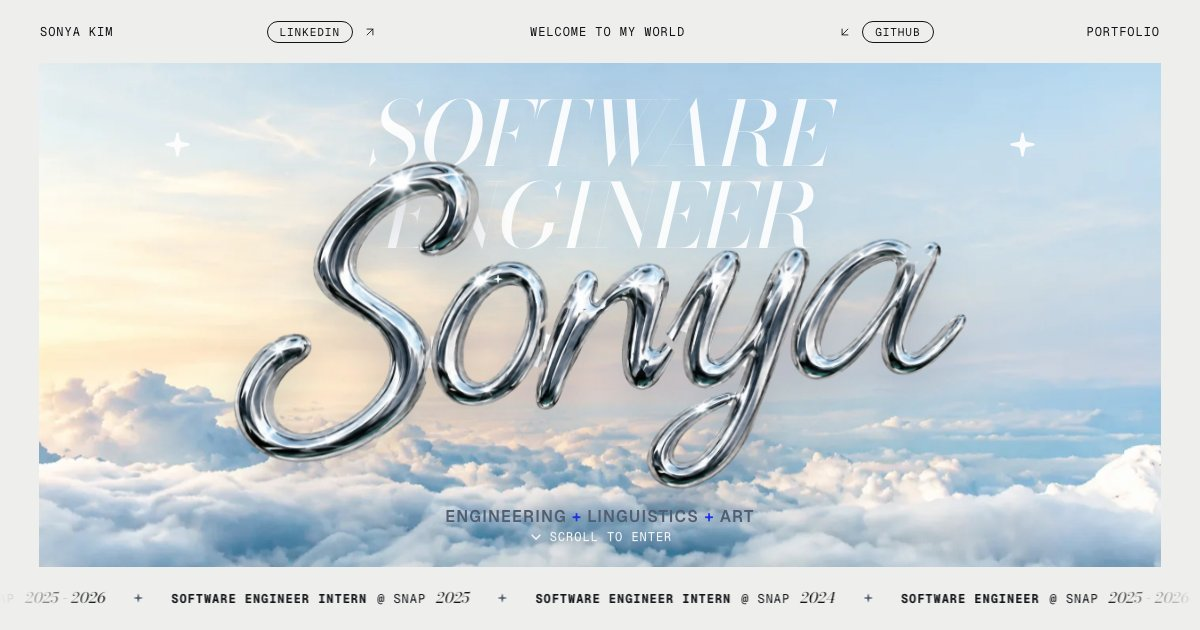
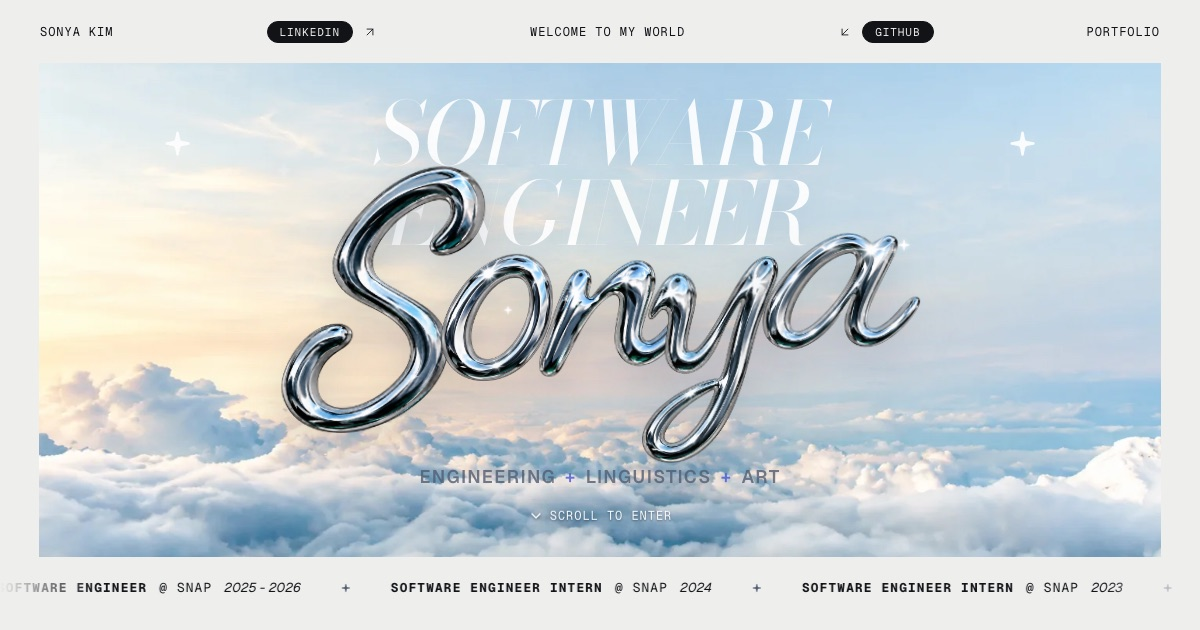
rearrange

diff --git a/src/data/projects.ts b/src/data/projects.ts
@@ -1,13 +1,13 @@
-import cosmos from "../assets/projects/cosmos.webp";
-import craftTrendFair from "../assets/projects/craft-trend-fair.webp";
-import fantasy from "../assets/projects/fantasy.webp";
-import formeLove from "../assets/projects/forme-love.webp";
-import iceman from "../assets/projects/iceman.webp";
-import mooTea from "../assets/projects/moo-tea.webp";
-import promotionDesign from "../assets/projects/promotion-design.webp";
-import targetVr from "../assets/projects/target-vr.webp";
-import todayIsAHoliday from "../assets/projects/today-is-a-holiday.webp";
-import youBelong from "../assets/projects/youbelong.webp";
+import cosmos from "@/assets/projects/cosmos.webp";
+import craftTrendFair from "@/assets/projects/craft-trend-fair.webp";
+import fantasy from "@/assets/projects/fantasy.webp";
+import formeLove from "@/assets/projects/forme-love.webp";
+import iceman from "@/assets/projects/iceman.webp";
+import mooTea from "@/assets/projects/moo-tea.webp";
+import promotionDesign from "@/assets/projects/promotion-design.webp";
+import targetVr from "@/assets/projects/target-vr.webp";
+import todayIsAHoliday from "@/assets/projects/today-is-a-holiday.webp";
+import youBelong from "@/assets/projects/youbelong.webp";
 import type { TechKey } from "./tech";
 
 export type Project = {

diff --git a/src/components/hero/SkyScene.tsx b/src/components/hero/SkyScene.tsx
@@ -1,13 +1,13 @@
 import { useRef, type MouseEvent } from "react";
 import { ArrowDownLeft, ArrowUpRight, ChevronDown, Sparkle } from "lucide-react";
 
-import cloudMist from "../assets/cloud-mist.webp";
-import cloudsFar from "../assets/clouds-far.webp";
-import cloudsNear from "../assets/clouds-near.webp";
-import sky from "../assets/sky.webp";
-import { SOCIAL_LINKS } from "../data/profile";
-import { gsap, useGSAP } from "../lib/gsap";
-import { BrandIcon } from "./BrandIcon";
+import cloudMist from "@/assets/cloud-mist.webp";
+import cloudsFar from "@/assets/clouds-far.webp";
+import cloudsNear from "@/assets/clouds-near.webp";
+import sky from "@/assets/sky.webp";
+import { SOCIAL_LINKS } from "@/data/profile";
+import { gsap, useGSAP } from "@/lib/gsap";
+import { BrandIcon } from "@/components/ui/BrandIcon";
 import { ChromeName } from "./ChromeName";
 import { ExperienceTicker } from "./ExperienceTicker";
 import { Tagline } from "./Tagline";

diff --git a/src/components/hero/ChromeName.tsx b/src/components/hero/ChromeName.tsx
@@ -1,13 +1,13 @@
 import { useRef, type CSSProperties } from "react";
 import { Sparkle } from "lucide-react";
 
-import a from "../assets/sonya/a.webp";
-import n from "../assets/sonya/n.webp";
-import o from "../assets/sonya/o.webp";
-import S from "../assets/sonya/S.webp";
-import y from "../assets/sonya/y.webp";
-import { LETTERS, WORD_HEIGHT, WORD_WIDTH } from "../data/chromeLetters";
-import { gsap, useGSAP } from "../lib/gsap";
+import a from "@/assets/sonya/a.webp";
+import n from "@/assets/sonya/n.webp";
+import o from "@/assets/sonya/o.webp";
+import S from "@/assets/sonya/S.webp";
+import y from "@/assets/sonya/y.webp";
+import { LETTERS, WORD_HEIGHT, WORD_WIDTH } from "@/data/chromeLetters";
+import { gsap, useGSAP } from "@/lib/gsap";
 
 type Char = (typeof LETTERS)[number]["char"];
 

diff --git a/src/App.tsx b/src/App.tsx
@@ -1,8 +1,8 @@
-import { ExperienceSection } from './components/ExperienceSection'
-import { Footer } from './components/Footer'
-import { SkyScene } from './components/SkyScene'
-import { SocialDock } from './components/SocialDock'
-import { ProjectSection } from './components/ProjectSection'
+import { ExperienceSection } from '@/components/sections/ExperienceSection'
+import { Footer } from '@/components/Footer'
+import { SkyScene } from '@/components/hero/SkyScene'
+import { SocialDock } from '@/components/SocialDock'
+import { ProjectSection } from '@/components/sections/ProjectSection'
 
 function App() {
   return (

diff --git a/src/components/SocialDock.tsx b/src/components/SocialDock.tsx
@@ -1,8 +1,8 @@
 import { useRef } from "react";
 
-import { SOCIAL_LINKS } from "../data/profile";
-import { gsap, ScrollTrigger, useGSAP } from "../lib/gsap";
-import { BrandIcon } from "./BrandIcon";
+import { SOCIAL_LINKS } from "@/data/profile";
+import { gsap, ScrollTrigger, useGSAP } from "@/lib/gsap";
+import { BrandIcon } from "@/components/ui/BrandIcon";
 
 /**
  * Floating glass pill with LinkedIn + GitHub. It slides up once the content below the hero (Experience) is on screen

diff --git a/src/data/tech.ts b/src/data/tech.ts
@@ -18,10 +18,10 @@ import {
   siUnity,
 } from 'simple-icons'
 
-import { siAmazonaws } from '../icons/aws'
-import { siCsharp } from '../icons/csharp'
-import { siJava } from '../icons/java'
-import { siAdobephotoshop } from '../icons/photoshop'
+import { siAmazonaws } from '@/icons/aws'
+import { siCsharp } from '@/icons/csharp'
+import { siJava } from '@/icons/java'
+import { siAdobephotoshop } from '@/icons/photoshop'
 
 export type Tech = {
   label: string

diff --git a/vite.config.ts b/vite.config.ts
@@ -1,8 +1,11 @@
 import tailwindcss from '@tailwindcss/vite'
 import react from '@vitejs/plugin-react'
+import { fileURLToPath } from 'node:url'
 import { defineConfig } from 'vite'
 
 // https://vite.dev/config/
 export default defineConfig({
   plugins: [react(), tailwindcss()],
+  // `@/…` imports resolve from src/ (mirrored in tsconfig.app.json `paths`)
+  resolve: { alias: { '@': fileURLToPath(new URL('./src', import.meta.url)) } },
 })

diff --git a/src/components/sections/ProjectCard.tsx b/src/components/sections/ProjectCard.tsx
@@ -1,7 +1,7 @@
 import { ArrowUpRight } from "lucide-react";
 
-import type { Project } from "../data/projects";
-import { TechList } from "./TechChip";
+import type { Project } from "@/data/projects";
+import { TechList } from "@/components/ui/TechChip";
 
 /** One project per row: image, then category, title, outcome and stack. The whole card is the link. */
 export function ProjectCard({ project }: { project: Project }) {

diff --git a/src/components/hero/ExperienceTicker.tsx b/src/components/hero/ExperienceTicker.tsx
@@ -1,7 +1,7 @@
 import { Fragment } from "react";
 import { Sparkle } from "lucide-react";
 
-import { HERO_EXPERIENCE } from "../data/experiences";
+import { HERO_EXPERIENCE } from "@/data/experiences";
 
 // Enough copies that one half of the track is wider than any screen, so the loop never shows a gap.
 const COPIES = Math.max(2, Math.ceil(8 / HERO_EXPERIENCE.length));

diff --git a/src/components/sections/ExperienceCard.tsx b/src/components/sections/ExperienceCard.tsx
@@ -1,5 +1,5 @@
-import type { Experience } from "../data/experiences";
-import { TechList } from "./TechChip";
+import type { Experience } from "@/data/experiences";
+import { TechList } from "@/components/ui/TechChip";
 
 /**
  * Same shell, grid and hover lift as ProjectCard, without an image or link: an inset panel takes the image's place

diff --git a/src/components/sections/ProjectSection.tsx b/src/components/sections/ProjectSection.tsx
@@ -1,5 +1,5 @@
-import cloudsFar from "../assets/clouds-far.webp";
-import { PROJECTS } from "../data/projects";
+import cloudsFar from "@/assets/clouds-far.webp";
+import { PROJECTS } from "@/data/projects";
 import { ProjectCard } from "./ProjectCard";
 import { SectionHeader } from "./SectionHeader";
 

diff --git a/src/components/hero/Tagline.tsx b/src/components/hero/Tagline.tsx
@@ -1,6 +1,6 @@
 import { Fragment } from "react";
 
-import { TAGLINE } from "../data/profile";
+import { TAGLINE } from "@/data/profile";
 
 /** "Software Engineering + Linguistics + Art" with accent-colored plus signs. */
 export function Tagline({ className = "" }: { className?: string }) {
